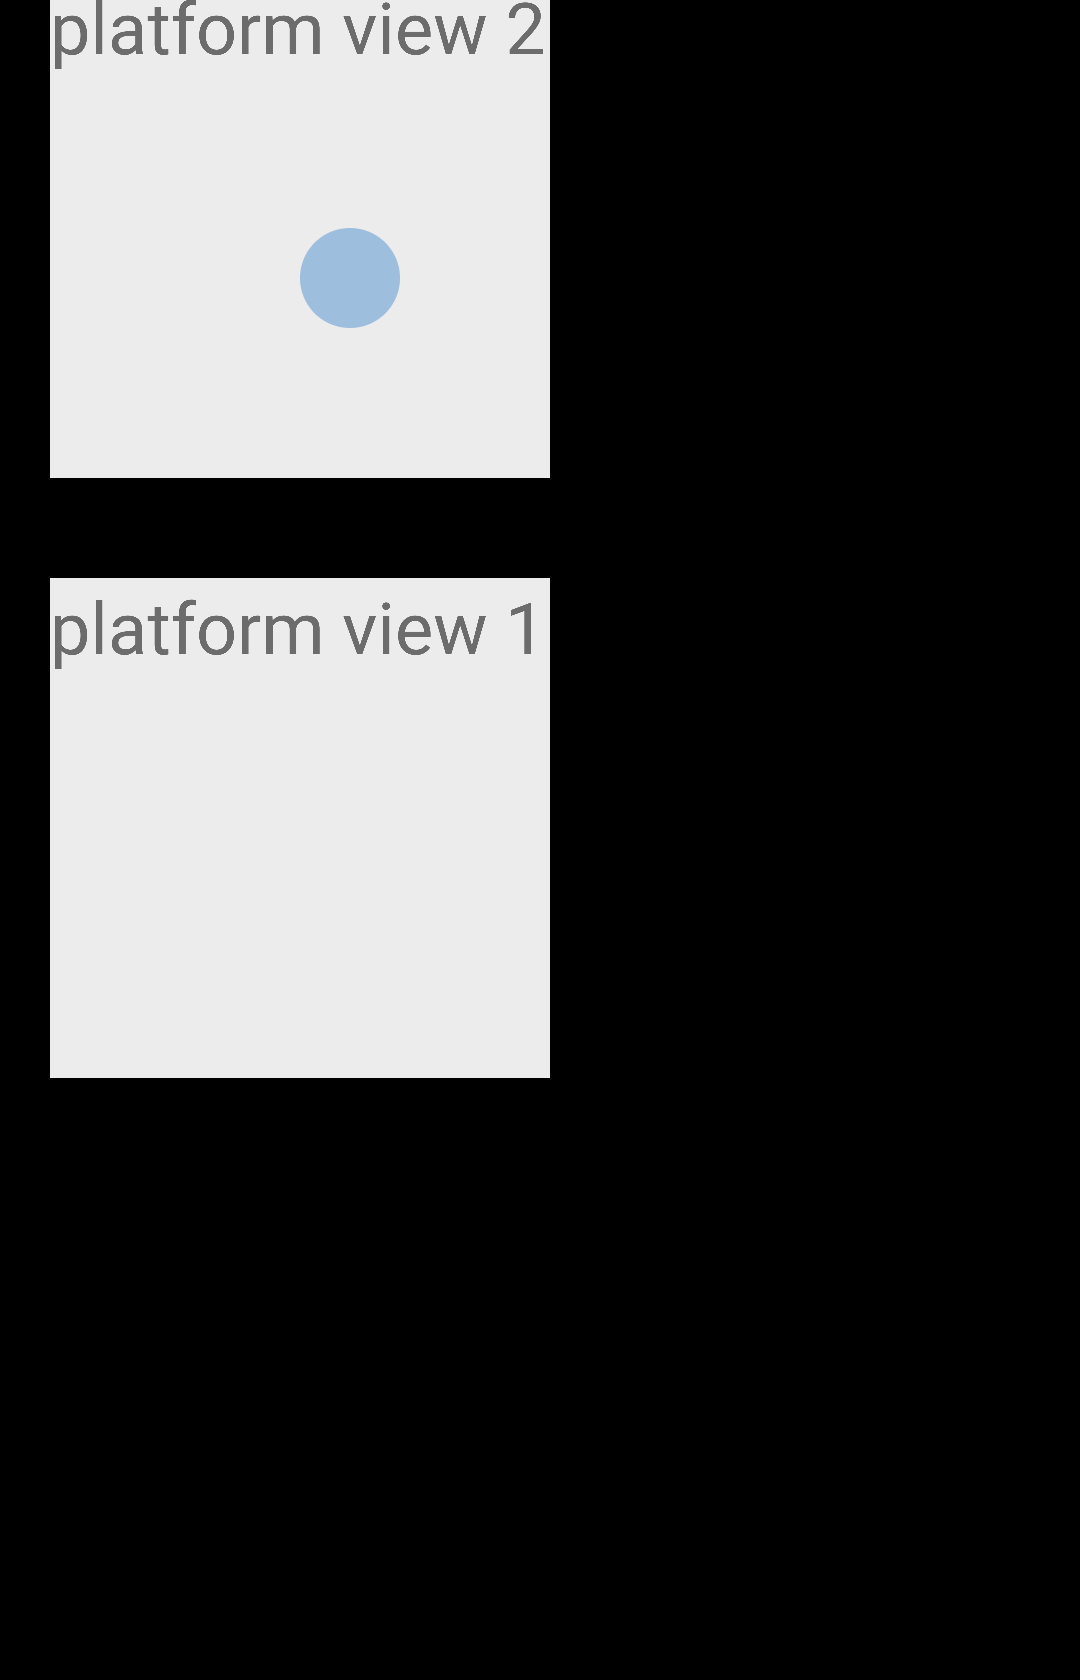
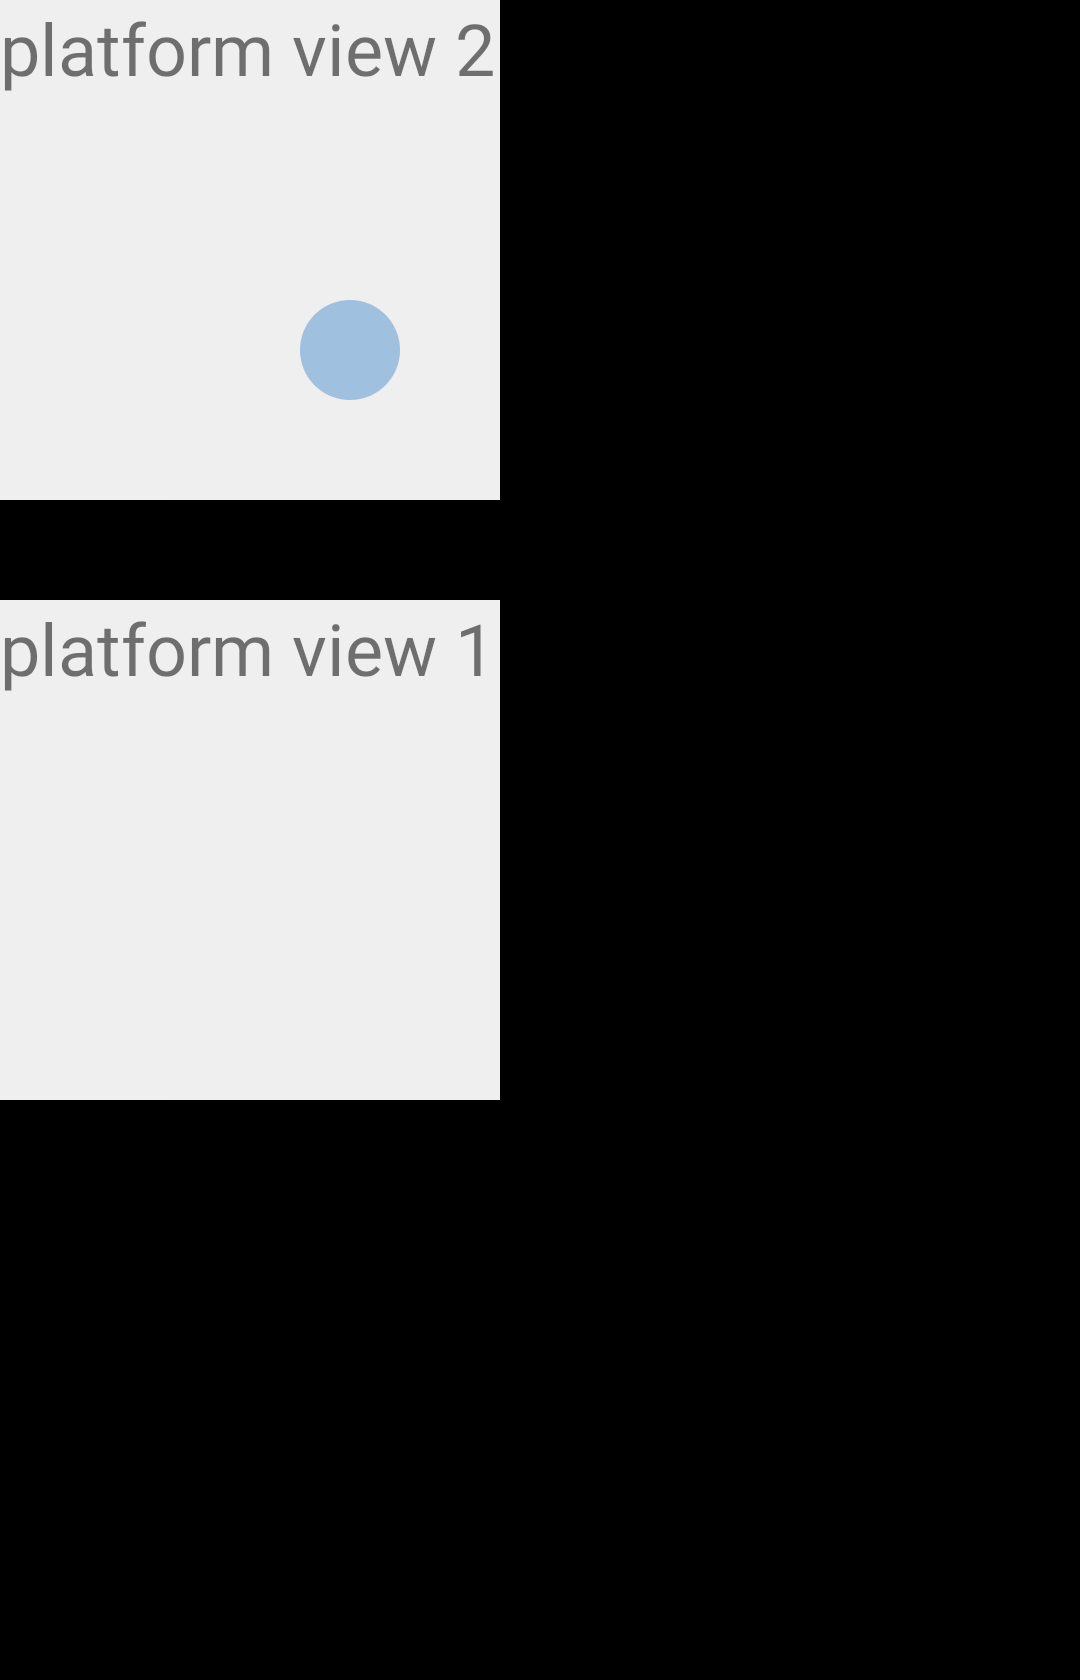
Fix and clean up scenario app for Android (#22540)

Changed region(s): [[0.0, 0.3405, 0.5194, 0.681], [0.0, 0.0, 0.5194, 0.3095], [0.275, 0.1238, 0.3667, 0.2476]]

diff --git a/testing/scenario_app/lib/src/platform_view.dart b/testing/scenario_app/lib/src/platform_view.dart
@@ -46,8 +46,6 @@ class PlatformViewScenario extends Scenario with _BasePlatformViewScenarioMixin 
   void onBeginFrame(Duration duration) {
     final SceneBuilder builder = SceneBuilder();
 
-    builder.pushOffset(0, 0);
-
     finishBuilderByAddingPlatformViewAndPicture(builder, id);
   }
 }
@@ -69,8 +67,6 @@ class PlatformViewNoOverlayIntersectionScenario extends Scenario with _BasePlatf
   @override
   void onBeginFrame(Duration duration) {
     final SceneBuilder builder = SceneBuilder();
-
-    builder.pushOffset(0, 0);
 
     finishBuilderByAddingPlatformViewAndPicture(
       builder,
@@ -98,8 +94,6 @@ class PlatformViewPartialIntersectionScenario extends Scenario with _BasePlatfor
   void onBeginFrame(Duration duration) {
     final SceneBuilder builder = SceneBuilder();
 
-    builder.pushOffset(0, 0);
-
     finishBuilderByAddingPlatformViewAndPicture(
       builder,
       id,
@@ -125,8 +119,6 @@ class PlatformViewTwoIntersectingOverlaysScenario extends Scenario with _BasePla
   @override
   void onBeginFrame(Duration duration) {
     final SceneBuilder builder = SceneBuilder();
-
-    builder.pushOffset(0, 0);
 
     _addPlatformViewToScene(builder, id, 500, 500);
     final PictureRecorder recorder = PictureRecorder();
@@ -166,8 +158,6 @@ class PlatformViewOneOverlayTwoIntersectingOverlaysScenario extends Scenario wit
   @override
   void onBeginFrame(Duration duration) {
     final SceneBuilder builder = SceneBuilder();
-
-    builder.pushOffset(0, 0);
 
     _addPlatformViewToScene(builder, id, 500, 500);
     final PictureRecorder recorder = PictureRecorder();
@@ -217,8 +207,6 @@ class MultiPlatformViewWithoutOverlaysScenario extends Scenario with _BasePlatfo
   void onBeginFrame(Duration duration) {
     final SceneBuilder builder = SceneBuilder();
 
-    builder.pushOffset(0, 0);
-
     builder.pushOffset(0, 600);
     _addPlatformViewToScene(builder, firstId, 500, 500);
     builder.pop();
@@ -258,8 +246,6 @@ class PlatformViewMaxOverlaysScenario extends Scenario with _BasePlatformViewSce
   @override
   void onBeginFrame(Duration duration) {
     final SceneBuilder builder = SceneBuilder();
-
-    builder.pushOffset(0, 0);
 
     _addPlatformViewToScene(builder, id, 500, 500);
     final PictureRecorder recorder = PictureRecorder();
@@ -314,8 +300,6 @@ class MultiPlatformViewScenario extends Scenario with _BasePlatformViewScenarioM
   void onBeginFrame(Duration duration) {
     final SceneBuilder builder = SceneBuilder();
 
-    builder.pushOffset(0, 0);
-
     builder.pushOffset(0, 600);
     _addPlatformViewToScene(builder, firstId, 500, 500);
     builder.pop();
@@ -357,13 +341,13 @@ class MultiPlatformViewBackgroundForegroundScenario extends Scenario with _BaseP
   void _firstFrame() {
     final SceneBuilder builder = SceneBuilder();
 
-    builder.pushOffset(0, 0);
-
-    builder.pushOffset(0, 600);
+    builder.pushOffset(50, 600);
     _addPlatformViewToScene(builder, firstId, 500, 500);
     builder.pop();
 
+    builder.pushOffset(50, 0);
     _addPlatformViewToScene(builder, secondId, 500, 500);
+    builder.pop();
 
     final PictureRecorder recorder = PictureRecorder();
     final Canvas canvas = Canvas(recorder);
@@ -374,7 +358,6 @@ class MultiPlatformViewBackgroundForegroundScenario extends Scenario with _BaseP
     final Picture picture = recorder.endRecording();
     builder.addPicture(const Offset(0, 0), picture);
 
-    builder.pop();
     final Scene scene = builder.build();
     window.render(scene);
     scene.dispose();
@@ -383,13 +366,12 @@ class MultiPlatformViewBackgroundForegroundScenario extends Scenario with _BaseP
   void _secondFrame() {
     final SceneBuilder builder = SceneBuilder();
 
-    builder.pushOffset(0, 0);
-
     builder.pushOffset(0, 600);
     _addPlatformViewToScene(builder, firstId, 500, 500);
     builder.pop();
 
     _addPlatformViewToScene(builder, secondId, 500, 500);
+
     final Scene scene = builder.build();
     window.render(scene);
     scene.dispose();
@@ -430,9 +412,10 @@ class PlatformViewClipRectScenario extends Scenario with _BasePlatformViewScenar
 
   @override
   void onBeginFrame(Duration duration) {
-    final SceneBuilder builder = SceneBuilder();
-    builder.pushOffset(0, 0);
-    builder.pushClipRect(const Rect.fromLTRB(100, 100, 400, 400));
+    final SceneBuilder builder =
+      SceneBuilder()
+      ..pushClipRect(const Rect.fromLTRB(100, 100, 400, 400));
+
     finishBuilderByAddingPlatformViewAndPicture(builder, id);
   }
 }
@@ -446,8 +429,6 @@ class PlatformViewClipRRectScenario extends PlatformViewScenario {
   @override
   void onBeginFrame(Duration duration) {
     final SceneBuilder builder = SceneBuilder();
-
-    builder.pushOffset(0, 0);
     builder.pushClipRRect(
       RRect.fromLTRBAndCorners(
         100,
@@ -471,18 +452,14 @@ class PlatformViewClipPathScenario extends PlatformViewScenario {
 
   @override
   void onBeginFrame(Duration duration) {
-    final SceneBuilder builder = SceneBuilder();
-
-    builder.pushOffset(0, 0);
-
     final Path path = Path()
       ..moveTo(100, 100)
       ..quadraticBezierTo(50, 250, 100, 400)
       ..lineTo(350, 400)
       ..cubicTo(400, 300, 300, 200, 350, 100)
       ..close();
-    builder.pushClipPath(path);
 
+    final SceneBuilder builder = SceneBuilder()..pushClipPath(path);
     finishBuilderByAddingPlatformViewAndPicture(builder, id);
   }
 }
@@ -495,15 +472,12 @@ class PlatformViewTransformScenario extends PlatformViewScenario {
 
   @override
   void onBeginFrame(Duration duration) {
-    final SceneBuilder builder = SceneBuilder();
-
-    builder.pushOffset(0, 0);
     final Matrix4 matrix4 = Matrix4.identity()
       ..rotateZ(1)
       ..scale(0.5, 0.5, 1.0)
       ..translate(1000.0, 100.0, 0.0);
 
-    builder.pushTransform(matrix4.storage);
+    final SceneBuilder builder = SceneBuilder()..pushTransform(matrix4.storage);
 
     finishBuilderByAddingPlatformViewAndPicture(builder, id);
   }
@@ -517,11 +491,7 @@ class PlatformViewOpacityScenario extends PlatformViewScenario {
 
   @override
   void onBeginFrame(Duration duration) {
-    final SceneBuilder builder = SceneBuilder();
-
-    builder.pushOffset(0, 0);
-    builder.pushOpacity(150);
-
+    final SceneBuilder builder = SceneBuilder()..pushOpacity(150);
     finishBuilderByAddingPlatformViewAndPicture(builder, id);
   }
 }
@@ -600,15 +570,11 @@ class PlatformViewForTouchIOSScenario extends Scenario
 
   void _firstFrame() {
     final SceneBuilder builder = SceneBuilder();
-
-    builder.pushOffset(0, 0);
     finishBuilderByAddingPlatformViewAndPicture(builder, _viewId);
   }
 
   void _secondFrame() {
-    final SceneBuilder builder = SceneBuilder();
-
-    builder.pushOffset(5, 5);
+    final SceneBuilder builder = SceneBuilder()..pushOffset(5, 5);
     finishBuilderByAddingPlatformViewAndPicture(builder, _viewId);
   }
 }

diff --git a/testing/scenario_app/android/app/src/androidTest/java/dev/flutter/scenariosui/ScreenshotUtil.java b/testing/scenario_app/android/app/src/androidTest/java/dev/flutter/scenariosui/ScreenshotUtil.java
@@ -4,8 +4,6 @@
 
 package dev.flutter.scenariosui;
 
-import android.app.Activity;
-import android.content.Context;
 import android.graphics.Bitmap;
 import android.os.Bundle;
 import android.os.Handler;
@@ -129,28 +127,6 @@ public class ScreenshotUtil {
     album = null;
   }
 
-  private static int getStatusBarHeight() {
-    final Context context = InstrumentationRegistry.getTargetContext();
-    // Resource name defined in
-    // https://android.googlesource.com/platform/frameworks/base/+/master/core/res/res/values/dimens.xml#34
-    final int resourceId =
-        context.getResources().getIdentifier("status_bar_height", "dimen", "android");
-    int statusBarHeight = 0;
-    if (resourceId > 0) {
-      statusBarHeight = context.getResources().getDimensionPixelSize(resourceId);
-    }
-    return statusBarHeight;
-  }
-
-  private static int getActionBarHeight(Activity activity) {
-    int actionBarHeight = 0;
-    final android.content.res.TypedArray styledAttributes =
-        activity.getTheme().obtainStyledAttributes(new int[] {android.R.attr.actionBarSize});
-    actionBarHeight = (int) styledAttributes.getDimension(0, 0);
-    styledAttributes.recycle();
-    return actionBarHeight;
-  }
-
   /**
    * Captures a screenshot of {@code TestableFlutterActivity}.
    *
@@ -182,13 +158,7 @@ public class ScreenshotUtil {
             Bitmap bitmap =
                 InstrumentationRegistry.getInstrumentation().getUiAutomation().takeScreenshot();
             // Remove the status and action bars from the screenshot capture.
-            bitmap =
-                Bitmap.createBitmap(
-                    bitmap,
-                    0,
-                    getStatusBarHeight(),
-                    bitmap.getWidth(),
-                    bitmap.getHeight() - getStatusBarHeight() - getActionBarHeight(activity));
+            bitmap = Bitmap.createBitmap(bitmap, 0, 0, bitmap.getWidth(), bitmap.getHeight());
 
             final String screenshotName = String.format("%s__%s", testClass, testName);
             // Write bitmap to the album.

diff --git a/testing/scenario_app/ios/Scenarios/ScenariosUITests/UnobstructedPlatformViewTests.m b/testing/scenario_app/ios/Scenarios/ScenariosUITests/UnobstructedPlatformViewTests.m
@@ -195,30 +195,30 @@
 
   XCUIElement* platform_view1 = app.textViews[@"platform_view[0]"];
   XCTAssertTrue([platform_view1 waitForExistenceWithTimeout:1.0]);
-  XCTAssertEqual(platform_view1.frame.origin.x, 25);
+  XCTAssertEqual(platform_view1.frame.origin.x, 50);
   XCTAssertEqual(platform_view1.frame.origin.y, 325);
   XCTAssertEqual(platform_view1.frame.size.width, 250);
   XCTAssertEqual(platform_view1.frame.size.height, 250);
 
   XCUIElement* platform_view2 = app.textViews[@"platform_view[1]"];
   XCTAssertTrue(platform_view2.exists);
-  XCTAssertEqual(platform_view2.frame.origin.x, 25);
+  XCTAssertEqual(platform_view2.frame.origin.x, 50);
   XCTAssertEqual(platform_view2.frame.origin.y, 25);
   XCTAssertEqual(platform_view2.frame.size.width, 250);
   XCTAssertEqual(platform_view2.frame.size.height, 250);
 
   XCUIElement* overlay1 = app.otherElements[@"platform_view[0].overlay[0]"];
   XCTAssertTrue(overlay1.exists);
-  XCTAssertEqual(overlay1.frame.origin.x, 25);
+  XCTAssertEqual(overlay1.frame.origin.x, 50);
   XCTAssertEqual(overlay1.frame.origin.y, 325);
-  XCTAssertEqual(overlay1.frame.size.width, 225);
+  XCTAssertEqual(overlay1.frame.size.width, 200);
   XCTAssertEqual(overlay1.frame.size.height, 175);
 
   XCUIElement* overlay2 = app.otherElements[@"platform_view[1].overlay[0]"];
   XCTAssertTrue(overlay2.exists);
-  XCTAssertEqual(overlay2.frame.origin.x, 25);
+  XCTAssertEqual(overlay2.frame.origin.x, 50);
   XCTAssertEqual(overlay2.frame.origin.y, 25);
-  XCTAssertEqual(overlay2.frame.size.width, 225);
+  XCTAssertEqual(overlay2.frame.size.width, 200);
   XCTAssertEqual(overlay2.frame.size.height, 250);
 }
 

diff --git a/testing/scenario_app/README.md b/testing/scenario_app/README.md
@@ -46,7 +46,7 @@ The test is run on a x86 emulator. To run the test locally, you must create an e
 
 ```
 hw.lcd.density = 480
-hw.lcd.height = 1920
+hw.lcd.height = 1680
 hw.lcd.width = 1080
 lcd.depth = 16
 ```
